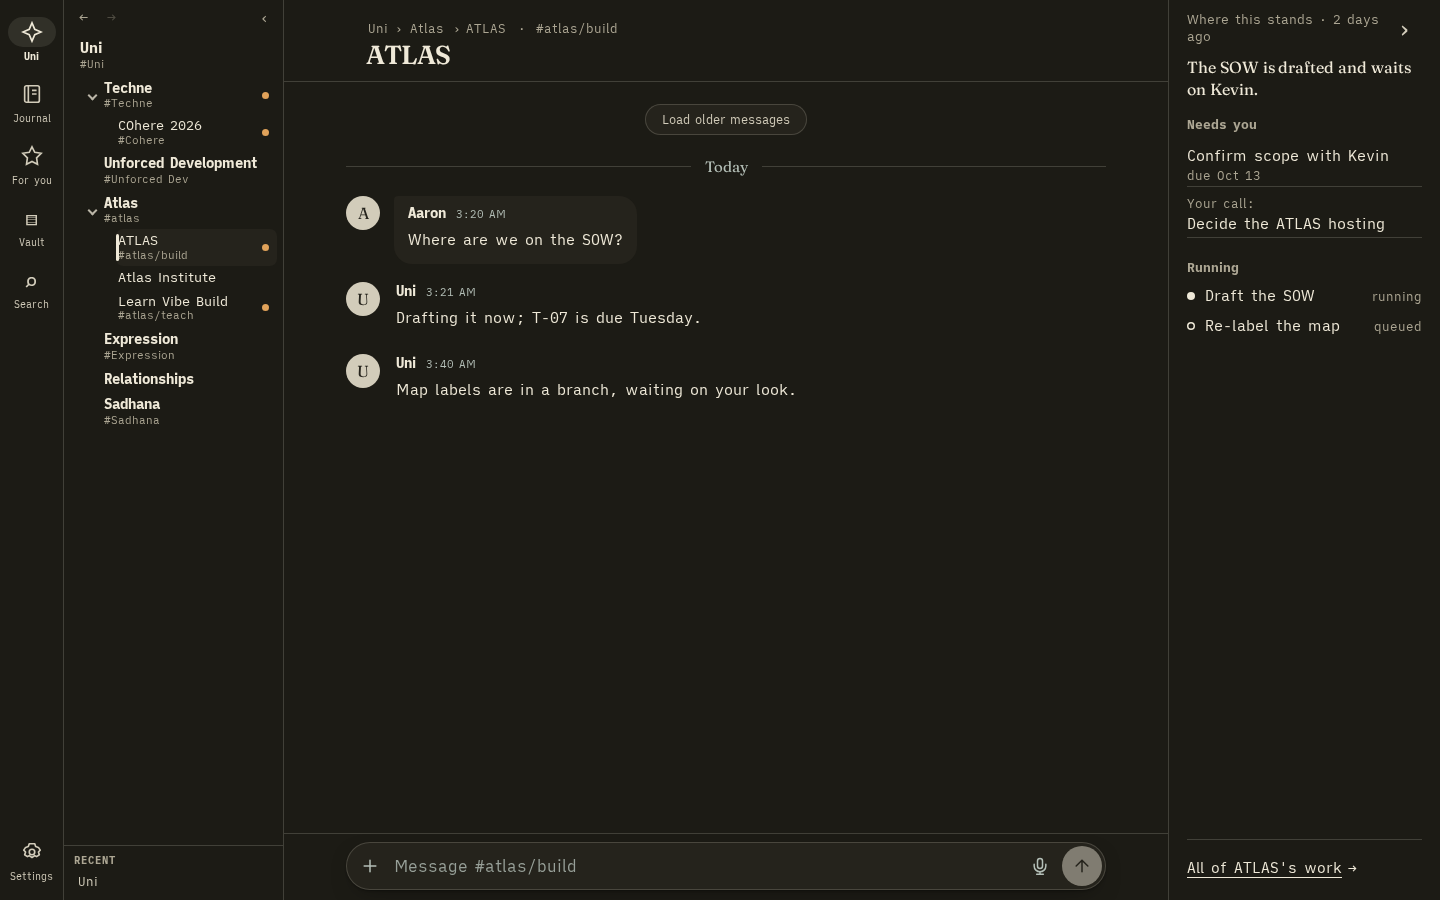
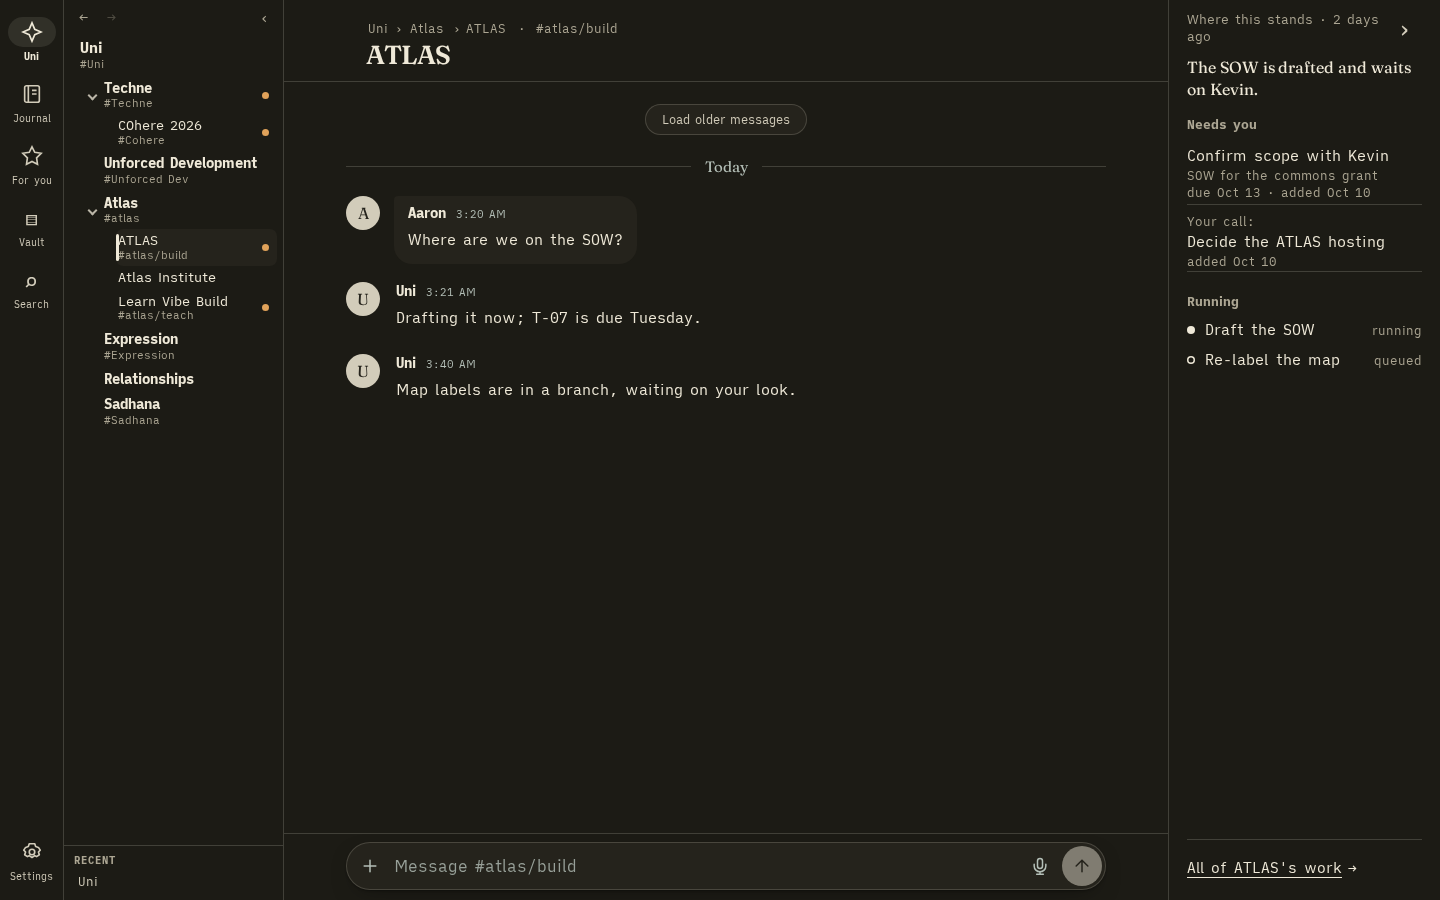
r23: Ctrl+W acts on the foreground (an open dialog closes as Escape closes it) and Cmd+W on macOS is left to the native menu (Codex 8); orphan styles removed (.th-stump, .th-toprow, .rooms-header, .phone-panel-tools, .landscape-panel-surfaces) (T-124 r23)

Changed region(s): [[0.8125, 0.1867, 0.9688, 0.4044], [0.9688, 0.3422, 1.0, 0.3733]]

diff --git a/src/areas/tree.css b/src/areas/tree.css
@@ -1,7 +1,7 @@
 /* T-111: the tree home. One stylesheet, one set of tokens (`--th-*`): swap the values in `.tree-home` to restyle the whole home.
    The tokens and signature objects are the Field Book language from uni-sketches/t111-app (language.css): bone paper, graphite ink, one
    dry ochre ("sap") for things climbing the tree, everything shape-coded first so it reads in grayscale on the Daylight.
-   Objects: .th-stump (a node: rings are depth, fill is state) · .th-tag (needs you: a hang tag) · .th-door (a room: an arch; dashed = held)
+   Objects: .th-tag (needs you: a hang tag) · .th-door (a room: an arch; dashed = held)
    · .th-sap (an update climbing) · .th-slip (a message in the room's ledger) · .th-guides (nesting: a trunk with branch ticks).
    Motion: none of its own. The map's one zoom (NodeStage, <= 300 ms) is the only transition; reduced motion drops it. */
 @font-face { font-family: "Fraunces"; font-weight: 400; font-display: swap; src: url(./fonts/fraunces-400.woff2) format("woff2"); }
@@ -51,8 +51,6 @@
 /* the head */
 .th-head { display: flex; flex-direction: column; gap: 2px; }
 .th-head.phone { padding: 0 0 6px; }
-.th-toprow { display: flex; flex-wrap: wrap; align-items: center; column-gap: 14px; }
-.th-toprow .th-back { padding-right: 14px; border-right: 1.5px solid var(--th-hair); }
 .th-back { all: unset; box-sizing: border-box; align-self: flex-start; min-height: 44px; display: inline-flex; align-items: center; gap: 6px; padding: 0 2px; font: 600 15px/1 var(--th-sans); text-decoration: underline; text-underline-offset: 4px; text-decoration-thickness: 1px; cursor: pointer; }
 .th-back:focus-visible, .th-crumb:focus-visible, .th-go:focus-visible, .th-kid:focus-visible, .th-up:focus-visible, .th-link:focus-visible { outline: 3px solid var(--th-ink); outline-offset: 2px; }
 .th-crumbs { display: flex; flex-wrap: wrap; align-items: center; font-size: 12.5px; letter-spacing: .02em; }
@@ -75,14 +73,6 @@
 .th-tag { display: inline-grid; place-items: center; position: relative; flex: none; min-width: 28px; height: 26px; padding: 0 8px 0 15px; background: var(--th-ink); color: var(--th-card); clip-path: var(--th-tag); font: 700 12.5px/1 var(--th-mono); }
 .th-tag::before { content: ""; position: absolute; left: 5px; top: 50%; width: 5px; height: 5px; margin-top: -2.5px; border-radius: 50%; background: var(--th-card); }
 .th-open { flex: none; min-width: 26px; height: 24px; padding: 0 6px; box-sizing: border-box; display: inline-grid; place-items: center; border: 1.5px solid var(--th-ink); border-radius: 12px; background: var(--th-card); font: 700 12px/1 var(--th-mono); }
-.th-stump { --out: none; position: relative; flex: none; display: inline-grid; place-items: center; box-sizing: border-box; width: 22px; height: 22px; border: 2px solid var(--th-ink); border-radius: 50%; background: var(--th-card); box-shadow: var(--out); margin: 4px 8px 4px 6px; }
-.th-stump[data-d="0"] { --out: 0 0 0 3px var(--th-paper), 0 0 0 4.5px var(--th-ink), 0 0 0 7.5px var(--th-paper), 0 0 0 9px var(--th-ink); }
-.th-stump[data-d="1"] { --out: 0 0 0 3px var(--th-paper), 0 0 0 4.5px var(--th-ink); }
-.th-stump[data-st="needs"] { background: var(--th-ink); }
-.th-stump[data-st="needs"]::after { content: ""; width: 6px; height: 6px; border-radius: 50%; background: var(--th-card); }
-.th-stump[data-st="moving"]::after { content: ""; width: 6px; height: 6px; border-radius: 50%; background: var(--th-ink); }
-.th-stump[data-st="quiet"] { border-style: dotted; }
-.th-stump.held { opacity: .85; }
 
 /* section heads: a label, then a rule that ends in a ring with the count */
 .th-sec, .th-alive, .tree-home .work { margin-top: 24px; }

diff --git a/src/App.css b/src/App.css
@@ -72,8 +72,6 @@ textarea:focus, input:focus { outline: none; border-color: var(--accent); box-sh
 /* ── Shell ─────────────────────────────────────────────────── */
 .shell { height: 100dvh; display: flex; overflow: hidden; background: var(--bg); }
 .rooms { width: 336px; flex: 0 0 336px; background: var(--surface-2); border-right: 1px solid var(--line); display: flex; flex-direction: column; padding-top: env(safe-area-inset-top); }
-.rooms-header { display: flex; align-items: flex-end; justify-content: space-between; padding: 30px 16px 12px 24px; }
-.rooms-header > div:last-child { display: flex; gap: 2px; }
 .eyebrow { font-size: 10px; color: var(--muted); font-weight: 500; letter-spacing: .22em; text-transform: uppercase; }
 h1 { font-family: var(--serif); font-weight: 500; font-size: 34px; line-height: 1; margin: 6px 0 0; letter-spacing: -.01em; color: var(--forest-deep); }
 .icon-button { border: 0; background: transparent; color: var(--muted); font-size: 22px; min-width: 44px; min-height: 44px; border-radius: 50%; display: inline-grid; place-items: center; }
@@ -573,9 +571,8 @@ h1 { font-family: var(--serif); font-weight: 500; font-size: 34px; line-height: 
 
 /* Navigation panels and reading surfaces at every viewport. */
 .panel-close { flex-shrink: 0; align-self: flex-end; margin: 6px 10px 0; }
-.phone-panel-tools, .landscape-panel-surfaces { display: none; }
 .rooms { overflow-y: auto; }
-.rooms-header, .connection, .identity, .vault-sidebar { flex-shrink: 0; }
+.connection, .identity, .vault-sidebar { flex-shrink: 0; }
 .identity { white-space: normal; overflow: visible; line-height: 1.7; overflow-wrap: anywhere; }
 .rooms-body { overflow-y: auto; }
 .message-list { padding-inline: max(20px, calc((100% - 760px) / 2)); }
@@ -601,9 +598,6 @@ h1 { font-family: var(--serif); font-weight: 500; font-size: 34px; line-height: 
   .shell .conversation { display: flex; }
   .back { display: grid; }
   .panel-scrim { inset: 0; }
-  .phone-panel-tools { display: flex; gap: 8px; padding: 4px 20px; }
-  .phone-panel-tools button { min-height: 44px; padding: 0 18px; border: 1px solid var(--line); border-radius: 999px; background: var(--surface); color: var(--forest); }
-  .panel-settings .phone-panel-tools, .landscape-panel-surfaces { display: none; }
   .note-sheet { left: 0; bottom: calc(56px + env(safe-area-inset-bottom)); }
   .shell:not(.in-room) .note-sheet { display: flex; }
   .composer { padding-inline: 6px; padding-bottom: 8px; }
@@ -624,16 +618,9 @@ h1 { font-family: var(--serif); font-weight: 500; font-size: 34px; line-height: 
   .composer { padding-block: 4px; }
   .message-list { padding-block: 8px; }
   .compose-row textarea { max-height: 64px; overflow-y: auto; }
-  .phone-panel-tools { display: flex; gap: 8px; }
 }
 
 @media (max-height: 499px) and (max-width: 950px) {
-  .landscape-panel-surfaces { display: flex; gap: 8px; flex-wrap: wrap; padding: 8px 20px; }
-  .landscape-panel-surfaces button, .phone-panel-tools button { display: inline-flex; align-items: center; gap: 6px; min-height: 44px; padding: 0 14px; border: 1px solid var(--line); border-radius: 999px; background: var(--surface); color: var(--forest); }
-}
-
-@media (max-height: 499px) and (max-width: 950px) {
-  .shell.search-open .landscape-panel-surfaces, .shell.search-open .phone-panel-tools, .shell.search-open .rooms-header { display: none; }
   .shell.search-open .search-view { flex: 1 0 auto; min-height: 280px; }
 }
 

diff --git a/src/App.tsx b/src/App.tsx
@@ -1496,7 +1496,16 @@ function Conversations({ onForget }: { onForget: () => void }) {
   };
   useEffect(() => {
     const onKey = (e: KeyboardEvent) => {
-      if ((e.metaKey || e.ctrlKey) && !e.altKey && !e.shiftKey && e.key.toLowerCase() === "w") { e.preventDefault(); closeActiveRef.current(); return; }
+      // r23 (Codex 8): on macOS Cmd+W is the native menu's Close Window, never the page's. Elsewhere Ctrl+W acts on the foreground: an open
+      // dialog (a task or companion sheet) closes as Escape closes it; otherwise the note or vault view over the place closes
+      if (e.key.toLowerCase() === "w" && !e.altKey && !e.shiftKey && (e.metaKey || e.ctrlKey)) {
+        if (/mac|iphone|ipad/i.test(navigator.platform)) return;
+        if (!e.ctrlKey) return;
+        e.preventDefault();
+        const dialog = [...document.querySelectorAll<HTMLElement>('[role="dialog"][aria-modal="true"]')].pop();
+        if (dialog) { (dialog.contains(document.activeElement) ? document.activeElement as HTMLElement : dialog).dispatchEvent(new KeyboardEvent("keydown", { key: "Escape", bubbles: true, cancelable: true })); return; }
+        closeActiveRef.current(); return;
+      }
       // Alt+← / Alt+→: Back and Forward over the places visited. In a text field on a Mac, Option+arrow moves by word, so it is left alone there.
       if (e.altKey && !e.metaKey && !e.ctrlKey && !e.shiftKey && (e.key === "ArrowLeft" || e.key === "ArrowRight")) {
         const el = e.target instanceof HTMLElement ? e.target : null;

diff --git a/scripts/browser/simple.spec.ts b/scripts/browser/simple.spec.ts
@@ -3839,6 +3839,23 @@ test.describe('r23', () => {
     await expect(lines).toHaveCount(1);
   });
 
+  test('Ctrl+W acts on the foreground (Codex 8): an open sheet closes as Escape closes it, and the place stays; Cmd+W is left to the native menu', async ({ page }) => {
+    await boot(page);
+    await add(page, { id: 'w1', title: 'T-309 Placeholder close', node: 'Areas/Techne', meta: { next: 'Send the placeholder note to Kevin' } });
+    await refresh(page, '2026-10-14T09:00:00.000Z');
+    await openRoom(page, 'Techne');
+    await openWork(page);
+    await rowOf(page, 'placeholder note to Kevin').locator('.cp-need').click();
+    await expect(sheetOf(page)).toBeVisible();
+    await page.keyboard.press('Control+w');
+    await expect(sheetOf(page)).toHaveCount(0);
+    await expect(page.locator('.sr-work')).toBeVisible();
+    // Meta+W alone (not macOS here) does nothing in the page
+    await rowOf(page, 'placeholder note to Kevin').locator('.cp-need').click();
+    await page.keyboard.press('Meta+w');
+    await expect(sheetOf(page)).toBeVisible();
+  });
+
   test('Recent never overlaps the area list: the tree scrolls in its own region above Recent, its last line fading while rows run on (1280×720)', async ({ page }) => {
     test.skip(!wide(page), 'the sidebar');
     await page.setViewportSize({ width: 1280, height: 720 });
